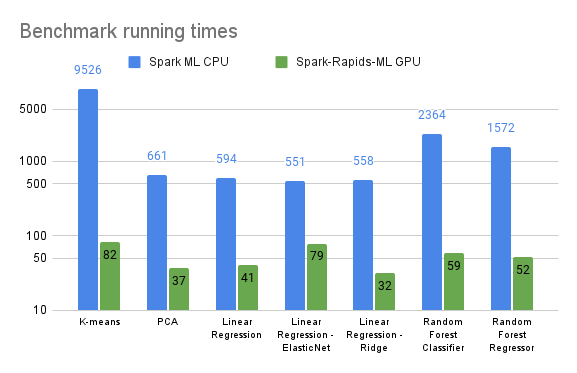
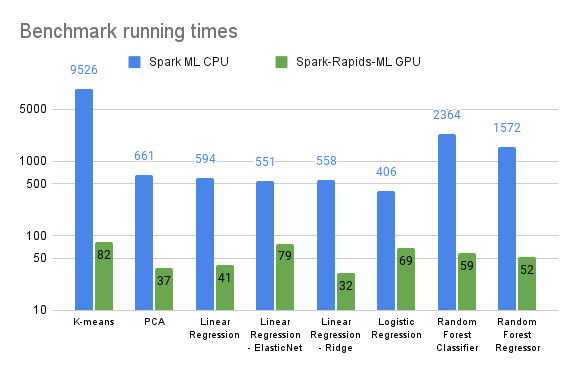
include logistic regression benchmark (#422)
* add logistic bm to plot

* add top level pointer to other CSP benchmarking

---------

diff --git a/python/benchmark/README.md b/python/benchmark/README.md
@@ -9,3 +9,8 @@ They can also be run on the Databricks AWS hosted Spark service.  See [these ins
 
 ![Databricks AWS benchmarking results](databricks/results/running_times.png)
 
+## Other CSPs
+Click on the below for instructions on running the benchmarking scripts in the respective CSP Spark environments 
+- [GCP Dataproc](dataproc/README.md)
+- [AWS EMR](aws-emr/README.md)
+
